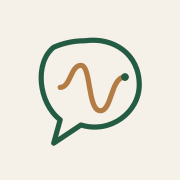
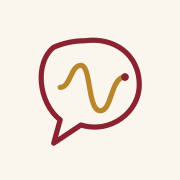
Switch to the Kasavu colour scheme: maroon and gold on cream
- theme.css: maroon for the interface and scribbles, antique gold for essays,
  cream surfaces and a warm brown dark theme; replaces the teal/green palette
- Logo, favicon, 32px PNG and home-screen icon recoloured to match
- Browser address-bar colour follows the new header/footer ink
- Layout, structure and behaviour are unchanged (every page keeps its exact size)

Claude-Session: https://claude.ai/code/session_01FJNZUyuV4abVeb1Jh4MNiH

Changed region(s): [[0.1944, 0.1944, 0.8056, 0.8333], [0.3056, 0.3333, 0.7222, 0.6389]]

diff --git a/src/styles/theme.css b/src/styles/theme.css
@@ -14,40 +14,40 @@
 :root {
   color-scheme: light dark;
 
-  /* ---- The "monsoon" palette ---- */
-  --bg: light-dark(#ffffff, #0d181d);
-  --surface: light-dark(#f2f7f6, #13232a);
-  --surface-strong: light-dark(#e2eeec, #1b3038);
-  --text: light-dark(#15212c, #e6efed);
-  --muted: light-dark(#4b5a68, #9cb0b1);
-  --border: light-dark(#d9e4e2, #22373e);
-  --accent: light-dark(#0a6c67, #52d0c4); /* interface and scribbles */
-  --accent-soft: light-dark(#e0f1ee, #10332f);
-  --essay: light-dark(#b8400f, #ff9e6e); /* essays */
-  --essay-soft: light-dark(#fcebe2, #3a2219);
+  /* ---- The "kasavu" palette: cream and gold with a deep maroon (the cloth of Kerala) ---- */
+  --bg: light-dark(#ffffff, #16100e);
+  --surface: light-dark(#faf6ee, #201815);
+  --surface-strong: light-dark(#f1e8d6, #2c211d);
+  --text: light-dark(#251c18, #f3e9e1);
+  --muted: light-dark(#6a5a50, #b9a79b);
+  --border: light-dark(#eadfcb, #3a2c26);
+  --accent: light-dark(#8a2232, #f08b95); /* interface and scribbles: maroon */
+  --accent-soft: light-dark(#f8e8ea, #3a161c);
+  --essay: light-dark(#8f5f00, #e8b84a); /* essays: antique gold */
+  --essay-soft: light-dark(#f9efd2, #33270c);
   --sun: #f6c453; /* highlights on dark surfaces only */
-  --rail: light-dark(#cfe3df, #22403f);
-  --highlight: light-dark(#fff0bf, #3a3418);
+  --rail: light-dark(#e6d9bd, #44352c);
+  --highlight: light-dark(#fff0bf, #3a3416);
   --focus: light-dark(#1d4ed8, #93c5fd);
 
   /* Deep surfaces: the footer and the fade over photographs */
-  --ink: light-dark(#15212c, #081115);
-  --on-ink: #e6efee;
-  --on-ink-muted: light-dark(#a9bcbf, #8fa6a8);
+  --ink: light-dark(#2a1015, #0e0908);
+  --on-ink: #f6ece4;
+  --on-ink-muted: light-dark(#cfb7ad, #a89086);
   --on-image: #ffffff;
   --on-image-muted: rgb(255 255 255 / 0.86);
-  --veil: light-dark(rgb(8 30 38), rgb(4 16 20)); /* use as color-mix(in srgb, var(--veil) 90%, transparent) */
+  --veil: light-dark(rgb(36 12 14), rgb(18 8 6)); /* use as color-mix(in srgb, var(--veil) 90%, transparent) */
   --text-shadow-image: 0 1px 12px rgb(0 0 0 / 0.4);
 
-  /* The logo: forest green outline, bronze wave */
-  --logo-outline: light-dark(#245b43, #5fb48c);
-  --logo-wave: #b47c45;
+  /* The logo: a maroon outline and a gold wave (the same colours as the interface and essay accents) */
+  --logo-outline: light-dark(#8a2232, #f08b95);
+  --logo-wave: light-dark(#b8862b, #e8b84a);
 
   /* Elevation */
-  --shadow-sm: 0 1px 2px light-dark(rgb(21 33 44 / 0.08), rgb(0 0 0 / 0.4));
+  --shadow-sm: 0 1px 2px light-dark(rgb(42 16 21 / 0.08), rgb(0 0 0 / 0.4));
   --shadow-md:
-    0 2px 4px light-dark(rgb(21 33 44 / 0.05), rgb(0 0 0 / 0.3)),
-    0 12px 24px -8px light-dark(rgb(10 60 66 / 0.2), rgb(0 0 0 / 0.6));
+    0 2px 4px light-dark(rgb(42 16 21 / 0.05), rgb(0 0 0 / 0.3)),
+    0 12px 24px -8px light-dark(rgb(42 16 21 / 0.2), rgb(0 0 0 / 0.6));
 }
 
 :root[data-theme='light'] {
